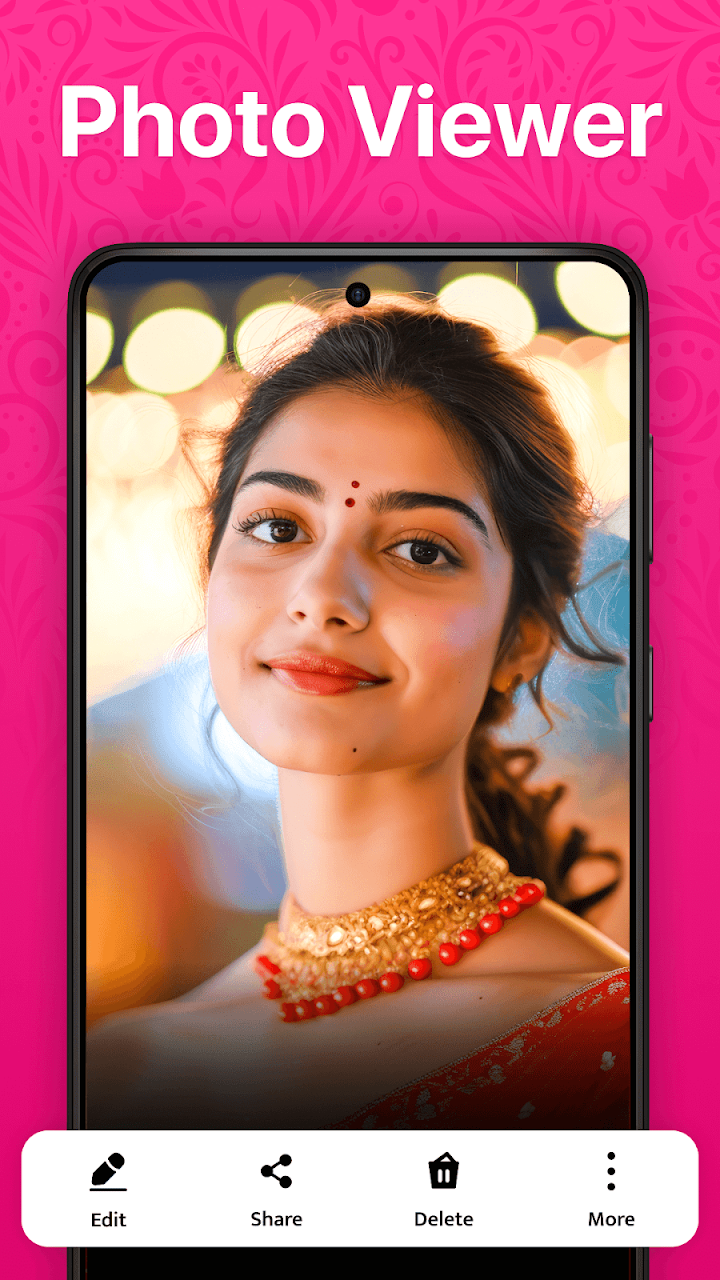
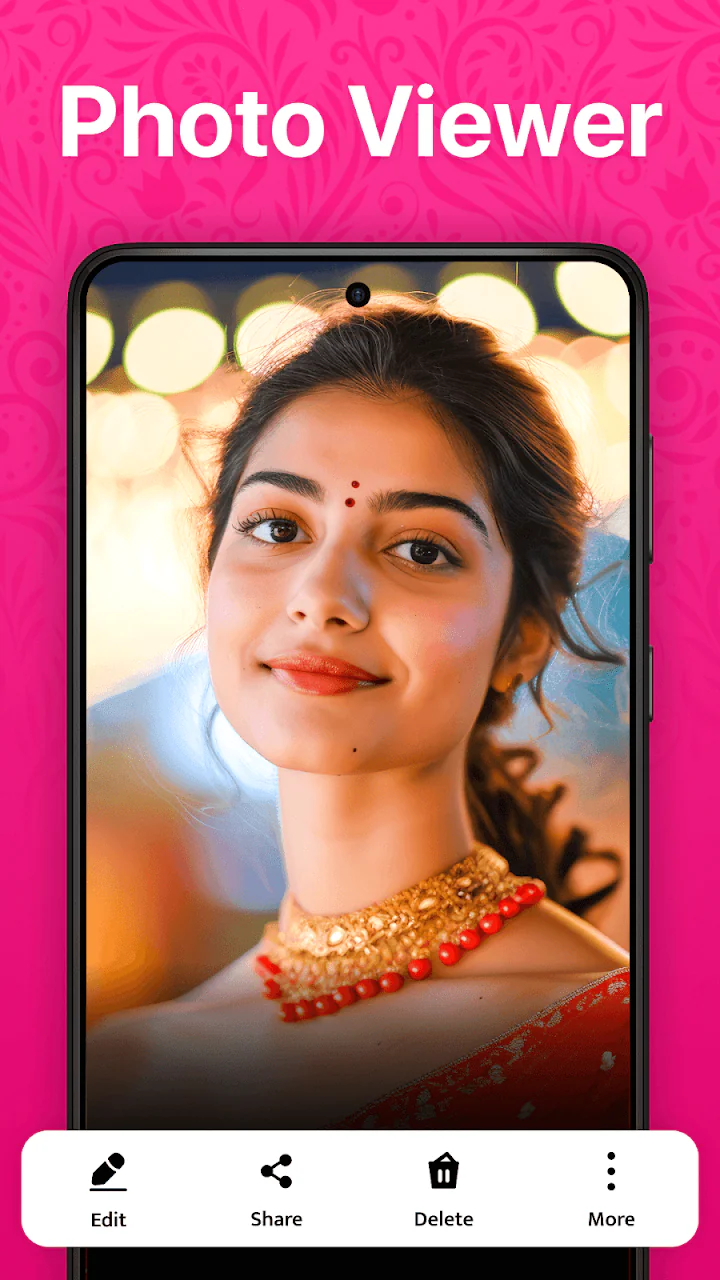
Cut 13 MB of screenshots and 44 KB of JS from the site
Every project screenshot was lossless WebP: 720x1280 phone captures full of
photos at ~1 MB each, including the hero's LCP image at 846 KB. Re-encoded at
quality 85 they total 1.6 MB against 14.8 MB, and a side-by-side crop of UI
text showed no visible difference. The nav avatar was 512px for a 48px slot
and preloaded on every route; it is now 144px (3x), 31 KB down to 5 KB. The
head-atlas texture is left lossless: lossy encoding visibly desaturated the
lips and irises, and near-lossless only saved 50 KB on an asset that loads
after hydration anyway.

GSAP and ScrollTrigger were ~45 KB gzipped of first-load JS used only as a
clock for Lenis; nothing used ScrollTrigger. Lenis now runs its own loop with
autoRaf. Home-page module JS goes from 289 KB to 245 KB gzipped.

The hero name, intro copy and every page h1 started at opacity 0 and only
animated once Motion hydrated, and Chrome does not count invisible text toward
LCP, so LCP waited on the whole bundle. Those on-mount intros are now CSS
keyframes with the same curves and delays, playing from first paint. The
reduced-motion rule shortens durations but not delays, so the intro classes
zero theirs explicitly. Scroll-triggered reveals stay on Motion.

ProjectCard is a client component, so each project's full case study (~20 KB
of text it never reads) was serialized into the home page's HTML.

diff --git a/components/sections/Hero.tsx b/components/sections/Hero.tsx
@@ -16,11 +16,8 @@ import { ease } from "@/lib/animation";
 
 const MemojiStage = dynamic(() => import("@/components/sections/MemojiStage"), { ssr: false });
 
-const fadeUp = (delay: number) => ({
-  initial: { opacity: 0, y: 24, filter: "blur(8px)" },
-  animate: { opacity: 1, y: 0, filter: "blur(0px)" },
-  transition: { duration: 1.2, ease: ease.outExpo, delay },
-});
+// CSS, not Motion: the intro plays from first paint rather than after hydration.
+const fadeUp = (delay: number) => ({ style: { animationDelay: `${delay}s` } });
 
 export function Hero() {
   const ref = useRef<HTMLElement>(null);
@@ -47,13 +44,13 @@ export function Hero() {
       >
         <MemojiStage className="max-w-[17rem] sm:max-w-xs lg:order-2 lg:col-span-5 lg:max-w-[34rem]" />
         <div className="max-w-[min(100%,52rem)] lg:order-1 lg:col-span-7">
-          <motion.p {...fadeUp(0.15)} className="eyebrow flex items-center gap-3">
+          <p {...fadeUp(0.15)} className="intro-fade eyebrow flex items-center gap-3">
             <span className="relative flex size-2" aria-hidden>
               <span className="absolute inline-flex size-full animate-ping rounded-full bg-accent opacity-60" />
               <span className="relative inline-flex size-2 rounded-full bg-accent" />
             </span>
             Hello, I&apos;m
-          </motion.p>
+          </p>
 
           <h1 id="hero-title" className="mt-5 text-display font-semibold">
             <TextReveal text={site.firstName} immediate delay={0.25} className="block" />
@@ -65,24 +62,24 @@ export function Hero() {
             />
           </h1>
 
-          <motion.p {...fadeUp(0.9)} className="mt-7 flex flex-wrap items-center gap-x-3 gap-y-1 text-lead text-fg">
+          <p {...fadeUp(0.9)} className="intro-fade mt-7 flex flex-wrap items-center gap-x-3 gap-y-1 text-lead text-fg">
             {site.roles.map((role, i) => (
               <span key={role} className="flex items-center gap-3">
                 {i > 0 && <span className="text-fg-subtle" aria-hidden>/</span>}
                 {role}
               </span>
             ))}
-          </motion.p>
+          </p>
 
-          <motion.p {...fadeUp(1.05)} className="mt-5 max-w-xl text-lead text-fg-muted text-balance">
+          <p {...fadeUp(1.05)} className="intro-fade mt-5 max-w-xl text-lead text-fg-muted text-balance">
             {site.statement}
-          </motion.p>
+          </p>
 
           {/* Proof before the ask. These are the numbers buried in Achievements,
               lifted above the fold where a recruiter skimming for a minute sees them. */}
-          <motion.dl
+          <dl
             {...fadeUp(1.15)}
-            className="mt-9 flex flex-wrap items-center gap-x-7 gap-y-4 sm:gap-x-10"
+            className="intro-fade mt-9 flex flex-wrap items-center gap-x-7 gap-y-4 sm:gap-x-10"
           >
             {heroProof.map((stat) => (
               <div key={stat.label} className="flex flex-col">
@@ -90,9 +87,9 @@ export function Hero() {
                 <dt className="mt-0.5 text-sm text-fg-muted">{stat.label}</dt>
               </div>
             ))}
-          </motion.dl>
+          </dl>
 
-          <motion.div {...fadeUp(1.3)} className="mt-10 flex flex-wrap items-center gap-3">
+          <div {...fadeUp(1.3)} className="intro-fade mt-10 flex flex-wrap items-center gap-3">
             <Button
               href="/#work"
               arrow="right"
@@ -109,9 +106,9 @@ export function Hero() {
             <Button href={site.resumePath} download="Darshak-Dharaiya-Resume.pdf" variant="glass" arrow="down">
               Download résumé
             </Button>
-          </motion.div>
+          </div>
 
-          <motion.ul {...fadeUp(1.45)} className="mt-10 flex items-center gap-2" aria-label="Social links">
+          <ul {...fadeUp(1.45)} className="intro-fade mt-10 flex items-center gap-2" aria-label="Social links">
             {socials.map((s) => (
               <li key={s.id}>
                 <Magnetic strength={0.4}>
@@ -127,14 +124,14 @@ export function Hero() {
                 </Magnetic>
               </li>
             ))}
-          </motion.ul>
+          </ul>
         </div>
       </motion.div>
 
       {/* Footer rail */}
-      <motion.div
+      <div
         {...fadeUp(1.6)}
-        className="container-x absolute inset-x-0 bottom-6 hidden items-end justify-between md:flex"
+        className="intro-fade container-x absolute inset-x-0 bottom-6 hidden items-end justify-between md:flex"
       >
         <p className="eyebrow">
           {site.location} · {site.availability}
@@ -149,7 +146,7 @@ export function Hero() {
             />
           </span>
         </div>
-      </motion.div>
+      </div>
     </section>
   );
 }

diff --git a/components/animations/TextReveal.tsx b/components/animations/TextReveal.tsx
@@ -1,6 +1,6 @@
 "use client";
 
-import type { ReactNode } from "react";
+import type { CSSProperties, ReactNode } from "react";
 import { motion, type Variants } from "motion/react";
 import { ease, viewportOnce } from "@/lib/animation";
 import { useReducedMotion } from "@/hooks/useReducedMotion";
@@ -62,12 +62,38 @@ export function TextReveal({
   }
 
   let index = 0;
+
+  // On-mount reveals are pure CSS (.intro-rise) so they play from the first paint,
+  // not after hydration — these are page h1s and usually the LCP element.
+  if (immediate) {
+    return (
+      <Static as={as} className={className} style={{ perspective: 800 }}>
+        <span className="sr-only">{label}</span>
+        {lines.map((line, li) => (
+          <span key={li} aria-hidden className={cn("block", lineClassName)}>
+            {line.split(" ").map((word, wi, words) => (
+              <span key={wi} className="inline-block overflow-hidden pb-[0.08em] -mb-[0.08em] align-top">
+                {(by === "chars" ? word.split("") : [word]).map((part) => (
+                  <span key={index} className="intro-rise" style={{ animationDelay: `${delay + each * index++}s` }}>
+                    {part}
+                  </span>
+                ))}
+                {wi < words.length - 1 && <span className="inline-block">&nbsp;</span>}
+              </span>
+            ))}
+          </span>
+        ))}
+      </Static>
+    );
+  }
+
   const MotionTag = motion[as];
   return (
     <MotionTag
       className={className}
       initial="hidden"
-      {...(immediate ? { animate: "visible" } : { whileInView: "visible", viewport: viewportOnce })}
+      whileInView="visible"
+      viewport={viewportOnce}
       transition={{ staggerChildren: each, delayChildren: delay }}
       style={{ perspective: 800 }}
     >
@@ -96,6 +122,14 @@ export function TextReveal({
   );
 }
 
-function Static({ as: Tag, ...p }: { as: NonNullable<Props["as"]>; className?: string; children: ReactNode }) {
+function Static({
+  as: Tag,
+  ...p
+}: {
+  as: NonNullable<Props["as"]>;
+  className?: string;
+  style?: CSSProperties;
+  children: ReactNode;
+}) {
   return <Tag {...p} />;
 }

diff --git a/components/layout/SmoothScroll.tsx b/components/layout/SmoothScroll.tsx
@@ -2,18 +2,15 @@
 
 import { createContext, useContext, useEffect, useState, type ReactNode } from "react";
 import Lenis from "lenis";
-import { gsap } from "gsap";
-import { ScrollTrigger } from "gsap/ScrollTrigger";
 import { sceneStore } from "@/lib/three/store";
 import { useReducedMotion } from "@/hooks/useReducedMotion";
-
-gsap.registerPlugin(ScrollTrigger);
 
 const LenisContext = createContext<Lenis | null>(null);
 export const useLenis = () => useContext(LenisContext);
 
 /**
- * Lenis smooth scrolling, driven by GSAP's ticker so ScrollTrigger and Lenis share one clock.
+ * Lenis smooth scrolling on its own rAF loop. (It used to ride GSAP's ticker, but
+ * nothing uses ScrollTrigger, and GSAP was ~45 KB gzipped of first-load JS.)
  * Disabled entirely for reduced-motion users (native scrolling, no inertia).
  * Also publishes scroll state to the WebGL store.
  */
@@ -42,23 +39,19 @@ export function SmoothScroll({ children }: { children: ReactNode }) {
       smoothWheel: true,
       // Touch keeps native momentum — it already feels right on phones
       syncTouch: false,
+      autoRaf: true,
     });
 
     instance.on("scroll", (l: Lenis) => {
-      ScrollTrigger.update();
       publish();
       sceneStore.scroll.velocity = l.velocity;
     });
 
-    const tick = (time: number) => instance.raf(time * 1000);
-    gsap.ticker.add(tick);
-    gsap.ticker.lagSmoothing(0);
     // eslint-disable-next-line react-hooks/set-state-in-effect -- expose instance to consumers
     setLenis(instance);
     publish();
 
     return () => {
-      gsap.ticker.remove(tick);
       instance.destroy();
       setLenis(null);
     };

diff --git a/app/globals.css b/app/globals.css
@@ -267,6 +267,35 @@ html.has-custom-cursor * {
   }
 }
 
+/*
+ * On-mount intros run in CSS rather than Motion so above-the-fold text animates
+ * from the first paint instead of waiting for the JS bundle to hydrate. That text
+ * (the hero name, every page's h1) is usually the LCP element, and Chrome does not
+ * count it until it is visible. Delays are set inline per element.
+ */
+.intro-rise {
+  display: inline-block;
+  transform-origin: bottom;
+  animation: intro-rise 1.1s var(--ease-out-expo) both;
+}
+@keyframes intro-rise {
+  from {
+    transform: translateY(105%) rotateX(-40deg);
+    opacity: 0;
+    filter: blur(8px);
+  }
+}
+.intro-fade {
+  animation: intro-fade 1.2s var(--ease-out-expo) both;
+}
+@keyframes intro-fade {
+  from {
+    transform: translateY(24px);
+    opacity: 0;
+    filter: blur(8px);
+  }
+}
+
 /* Grain overlay — keeps flat surfaces from looking digital */
 .grain::after {
   content: "";
@@ -361,6 +390,12 @@ html.theme-transition ::view-transition-new(root) {
     animation-iteration-count: 1 !important;
     transition-duration: 0.01ms !important;
     scroll-behavior: auto !important;
+  }
+  /* The global rule shortens durations, not delays; without this the intros sit
+     invisible for their whole delay before snapping in. */
+  .intro-rise,
+  .intro-fade {
+    animation-delay: 0s !important;
   }
   ::view-transition-old(*),
   ::view-transition-new(*),

diff --git a/components/sections/work/Work.tsx b/components/sections/work/Work.tsx
@@ -15,7 +15,9 @@ export function Work() {
         />
         <div className="space-y-36 md:space-y-48">
           {featuredProjects.map((p, i) => (
-            <ProjectCard key={p.slug} project={p} index={i} />
+            // The card is a client component, so everything passed to it is inlined into
+            // the home page's HTML. The case study is ~20 KB of text it never reads.
+            <ProjectCard key={p.slug} project={{ ...p, caseStudy: undefined }} index={i} />
           ))}
         </div>
       </div>

diff --git a/lib/animation.ts b/lib/animation.ts
@@ -11,13 +11,6 @@ export const ease = {
   spring: [0.34, 1.36, 0.64, 1],
 } as const satisfies Record<string, [number, number, number, number]>;
 
-/** GSAP string equivalents */
-export const gsapEase = {
-  outExpo: "expo.out",
-  outQuart: "quart.out",
-  inOutQuart: "quart.inOut",
-} as const;
-
 export const duration = {
   instant: 0.12,
   fast: 0.24,
